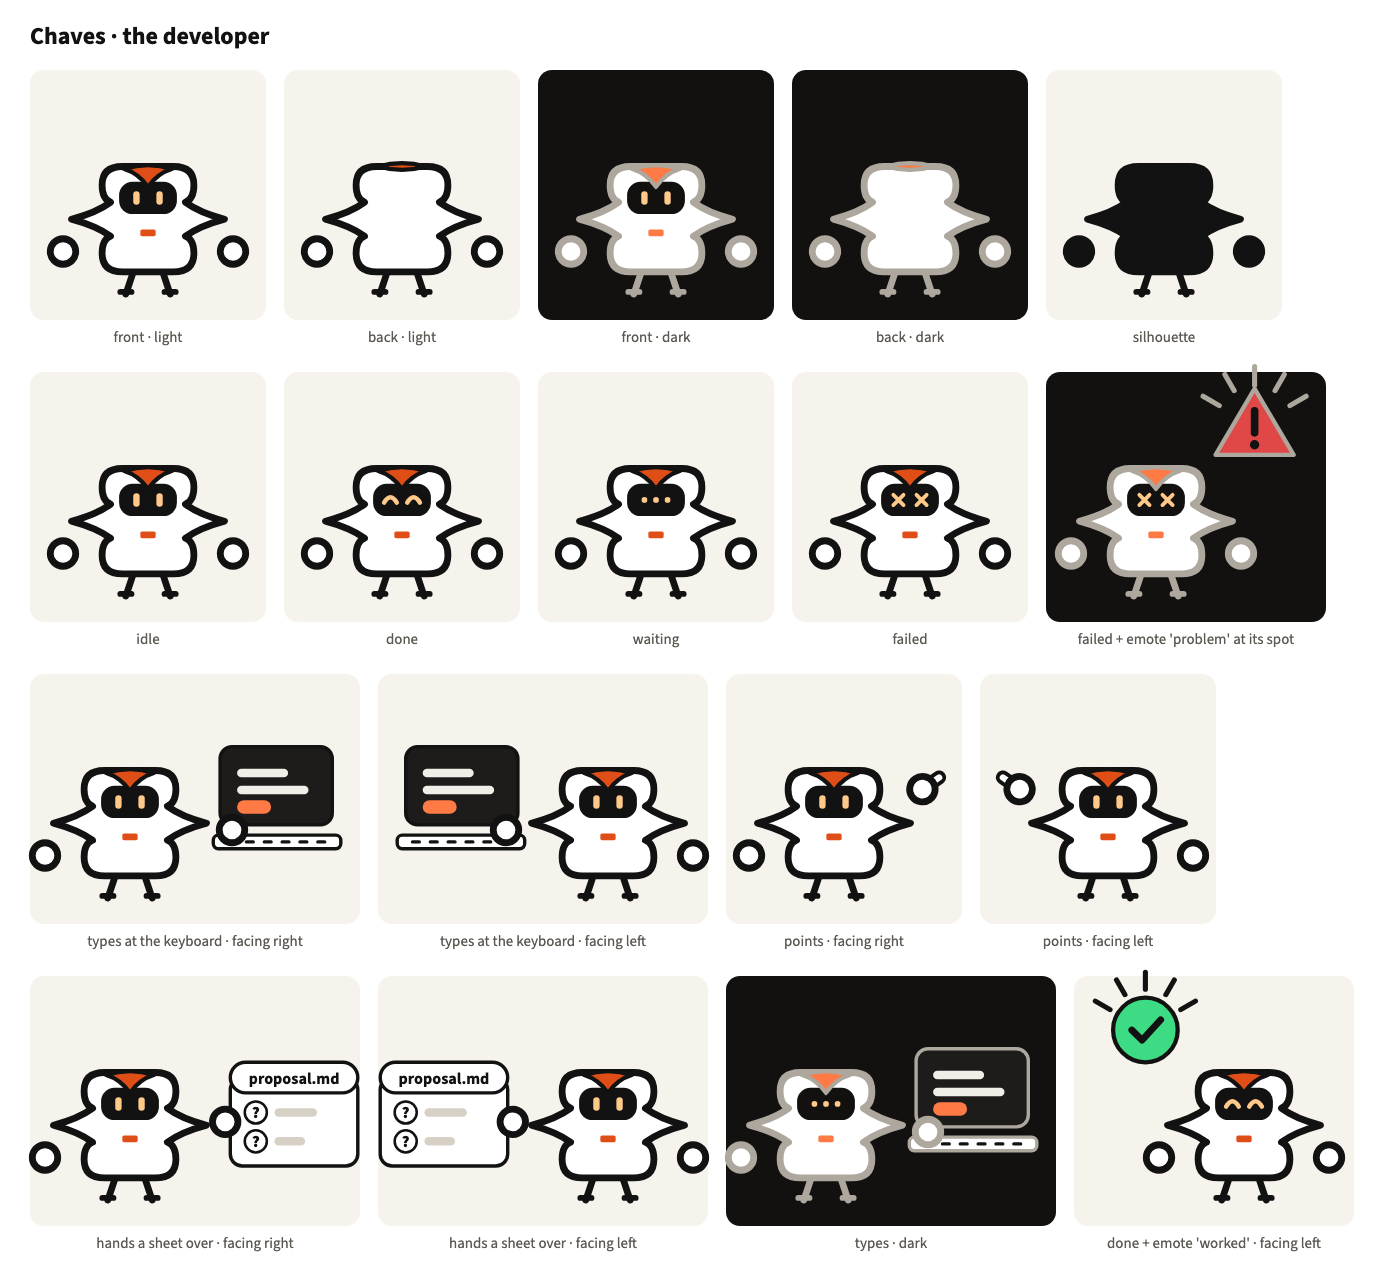
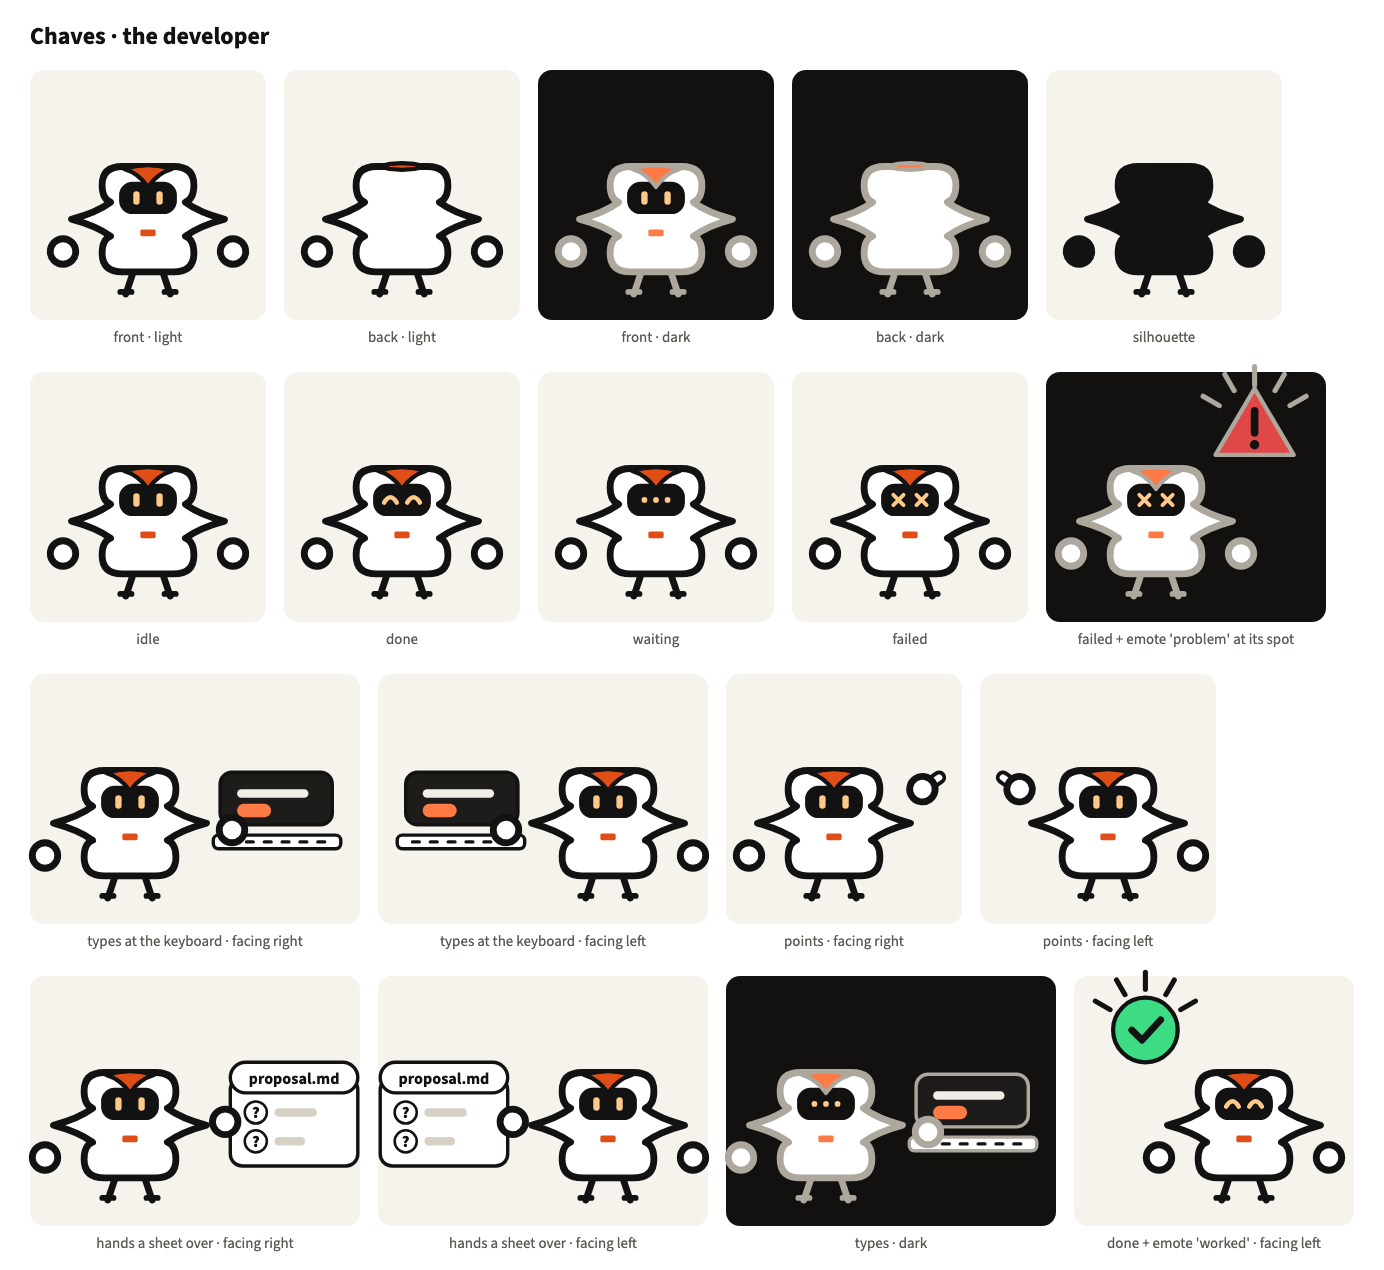
fix: clear the emote spot in the README's typing screen, test every emote there (supporting-characters, code review round 1)

Changed region(s): [[0.6525, 0.7984, 0.7457, 0.8906], [0.2796, 0.5835, 0.3728, 0.6449], [0.1553, 0.5835, 0.2486, 0.6449]]

diff --git a/test/pieces/supporting-cast.test.ts b/test/pieces/supporting-cast.test.ts
@@ -9,9 +9,12 @@ import { describe, expect, test } from "vitest";
 import {
   CAST_EXPRESSIONS,
   CAST_FACINGS,
+  EMOTE_KINDS,
   PIECES,
   balao,
   chaves,
+  codePanel,
+  emote,
   keyboard,
   pill,
   pose,
@@ -261,10 +264,14 @@ describe("Chaves's silhouette", () => {
     expect(points.find(([x]) => x === Math.max(...xs))).toEqual([90, -88]);
     expect(points.find(([x]) => x === Math.min(...xs))).toEqual([-90, -88]);
     for (const point of [[44, -108], [44, -68], [-44, -108], [-44, -68], [54, -128], [54, -48], [-54, -128], [-54, -48]] as [number, number][]) expect(has(points, point), String(point)).toBe(true);
-    // |x| of the waist < |x| of the corners < |x| of the points; on y, -128 < -108 < -88 < -68 < -48.
-    expect(44).toBeLessThan(54);
-    expect(54).toBeLessThan(90);
-    expect([-128, -108, -88, -68, -48]).toEqual([-128, -108, -88, -68, -48].slice().sort((a, b) => a - b));
+    // From the drawn points on the right side: |x| of the waist < |x| of the corners < |x| of the point,
+    // and down the side the corner, the waist, the point, the waist and the corner follow each other.
+    const right = points.filter(([x, y]) => x > 0 && y > -150 && y < -26);
+    const xAt = (y: number) => right.find(([, py]) => py === y)![0];
+    expect(xAt(-108)).toBeLessThan(xAt(-128));
+    expect(xAt(-68)).toBeLessThan(xAt(-48));
+    expect(xAt(-128)).toBeLessThan(xAt(-88));
+    expect(right.map(([, y]) => y)).toEqual([-128, -108, -88, -68, -48]);
     // The curves into and out of the point (90, -88) are quadratics with the control points (60, -96) and (60, -80).
     const into = segments.find((segment) => segment.to[0] === 90 && segment.to[1] === -88)!;
     const outOf = segments.find((segment) => segment.from[0] === 90 && segment.from[1] === -88)!;
@@ -496,6 +503,8 @@ const boxesOf = (nodes: readonly SvgNode[], m = IDENTITY, stroke = "none", width
   });
 /** The distance from a point to a box (0 inside it). */
 const distance = ([x, y]: [number, number], box: Box) => Math.hypot(Math.max(box.x0 - x, 0, x - box.x1), Math.max(box.y0 - y, 0, y - box.y1));
+/** Whether two boxes share a point. */
+const meets = (a: Box, b: Box) => a.x0 <= b.x1 && b.x0 <= a.x1 && a.y0 <= b.y1 && b.y0 <= a.y1;
 /** The emote's disc: radius 40 and its outline (design §8). */
 const SPOT_RADIUS = 44;
 const spotOf = (facing: CastFacing): [number, number] => [facing === "left" ? -116 : 116, -200];
@@ -515,7 +524,18 @@ describe("Emote spot beside the head", () => {
       for (const [label, drawn] of calls) {
         expect(drawn.body[0].attrs.transform).toBe("translate(0 0) scale(1)");
         expect(overlapping(drawn, facing), `${label} facing ${facing}`).toEqual([]);
+        // Every emote drawn at the spot, its burst included (some reach past the disc), touches none of the piece's shapes.
+        const piece = boxesOf(kids(drawn.body[0]));
+        for (const kind of EMOTE_KINDS) {
+          const [x, y] = spotOf(facing);
+          const touching = boxesOf(emote({ kind, x, y }).body).filter((box) => piece.some((other) => meets(box, other)));
+          expect(touching, `${kind} at the spot of ${label} facing ${facing}`).toEqual([]);
+        }
       }
+      // The README's screen for Chaves typing, a codePanel above the keyboard (in the cover command's 4-unit outline), clears it too.
+      const screen = codePanel({ x: facing === "left" ? -238 : 106, y: -148, width: 132, height: 62, lines: [] });
+      const screenBoxes = boxesOf(screen.body, IDENTITY, "ink", tokens.outline.block);
+      expect(screenBoxes.filter((box) => distance(spotOf(facing), box) < SPOT_RADIUS), `screen facing ${facing}`).toEqual([]);
     }
   });
 

diff --git a/docs/spikes/2026-11-12-supporting-characters/model-sheet.ts b/docs/spikes/2026-11-12-supporting-characters/model-sheet.ts
@@ -145,9 +145,9 @@ const balaoPanel = characterPanel("balao", "Balão · the requester and approver
 ]);
 
 const screen = (x: number, gy: number, facing: Facing): Drawn => {
-  // The laptop's screen is a codePanel the scene places above the keyboard (design §4); one accent line is the command.
+  // The laptop's screen is a codePanel the scene places above the keyboard (design §4), low enough to clear the emote spot (design §8); one accent line is the command.
   const panelX = facing === "right" ? 106 : -238;
-  const panel = L.codePanel({ x: panelX, y: -178, width: 132, height: 92, top: 26, step: 20, lines: [{ indent: 0, w: 60, color: "white" }, { indent: 0, w: 84, color: "white" }, { indent: 0, w: 40, color: "white", tall: true }] });
+  const panel = L.codePanel({ x: panelX, y: -148, width: 132, height: 62, top: 20, step: 20, lines: [{ indent: 0, w: 84, color: "white" }, { indent: 0, w: 40, color: "white", tall: true }] });
   return { body: [g({ transform: `translate(${x} ${gy}) scale(${S})` }, ...panel.body)], text: [] };
 };
 const SHEET = { width: 150, height: 104, top: 30, step: 34, rows: [{ lead: "question" as const, bar: 50 }, { lead: "question" as const, bar: 36 }], label: "proposal.md" };

diff --git a/README.md b/README.md
@@ -222,19 +222,21 @@ const question = questionToken({ cx: 300, cy: 120, scale: 1.5 });
 
 The supporting characters of 0.13.0 (card 337, the concept the owner chose in the identity studio of 2026-11-12) are glyphs of their trade on Mira's legs, for the human roles of a scene. Both take the shared parameters and `facing: "right" | "left"` (default `right`; facing left is the mirror image of the body only, and a held prop and its words are never mirrored), do one action at a time and do nothing unless an action is set ([model sheet](docs/spikes/2026-11-12-supporting-characters/README.md)):
 
-- `balao`, the requester and approver: a speech balloon whose tail points at the listener (the side it faces). `speaks: true` lights the request line on its belly in the accent. `holdsStamp: { word }` holds the `stamp` piece in the front hand with the caller's word (the SDD scene's `GO`); the stamp is 24 in radius and draws its word at 27 whatever its length, so keep the word to two or three letters. Refused with `speaks` or from behind. Balão answering is a `sheet` the scene places beside its front hand.
+- `balao`, the requester and approver: a speech balloon whose tail points at the listener (the side it faces). `speaks: true` lights the request line on its belly in the accent. `holdsStamp: { word }` holds the `stamp` piece in the front hand with the caller's word (the SDD scene's `GO`); the held stamp is always the approval green (`color.state.healthy`), so its word says yes (`GO`, `OK`), never a refusal; the stamp is 24 in radius and draws its word at 27 whatever its length, so keep the word to two or three letters. Refused with `speaks` or from behind. Balão answering is a `sheet` the scene places beside its front hand.
 - `chaves`, the developer: a `{ }` body with sharp brace points and a waist (it reads as a brace at 24 px), and the cursor in the accent. `types: true` puts the `keyboard` under the front hand; the screen above it is a `codePanel` the scene places. `points: true` swaps the front hand for Visor's pointing hand. `holdsSheet` hands a sheet over, as Visor's (`width` 80 to 300, `height` 80 to 400, 1 to 8 `rows`, `label`), held out in the front hand. `types` and `holdsSheet` are refused from behind.
 - `keyboard({ x, y, width, surface })`, the laptop's base: a white slab (`width` 80 to 300, default 150, 16 high, top-left corner at `x`, `y`) with ink key marks, outlined on both surfaces. It takes no colour and no text; a cover can draw it under a `codePanel`.
 
 ```ts
 import { balao, chaves, codePanel } from "@brunosouzas/design-system";
+// A cover (a still). In a scene one character acts at a time (motion CAST-4): Balão speaks, then Chaves types.
 const requester = balao({ x: 300, y: 450, scale: 1.25, speaks: true });
+// The developer's screen above the keyboard, drawn before Chaves so the typing hand stays in front: in Chaves's
+// units at scale 1 a panel 132 x 62 at (-238, -148) facing left ((106, -148) facing right), low enough to clear the emote spot.
+const screen = codePanel({ x: 680 - 238 * 1.25, y: 450 - 148 * 1.25, width: 165, height: 77.5, top: 25, step: 25, lines: [{ indent: 0, w: 105, color: "white" }, { indent: 0, w: 50, color: "white", tall: true }] });
 const developer = chaves({ x: 680, y: 450, scale: 1.25, facing: "left", types: true });
-// The developer's screen, above the keyboard (facing left: x -238 in Chaves's units at scale 1).
-const screen = codePanel({ x: 680 - 238 * 1.25, y: 450 - 178 * 1.25, width: 165, height: 115, lines: [{ indent: 0, w: 60, color: "white", tall: true }] });
 ```
 
-**Emote spot.** An emote for Balão or Chaves sits beside the head on the front side, at the character's `scale` (about the head's size, motion CAST-3): its centre at (`x` + 116·`scale`, `y` − 200·`scale`) facing right and (`x` − 116·`scale`, `y` − 200·`scale`) facing left. There it clears the body, the hood tip, the hands, the pointing hand, the held stamp and the keyboard. A sheet Chaves holds taller than 114 (96 with a label) reaches the spot: then the scene moves the emote or the sheet, on its stills. The five pillar characters have no documented spot.
+**Emote spot.** An emote for Balão or Chaves sits beside the head on the front side, at the character's `scale` (about the head's size, motion CAST-3): its centre at (`x` + 116·`scale`, `y` − 200·`scale`) facing right and (`x` − 116·`scale`, `y` − 200·`scale`) facing left. There every emote, its burst included, clears the body, the hood tip, the hands, the pointing hand, the held stamp, the keyboard and the screen of the example above (a taller screen, like a panel reaching y −178, covers the spot). A sheet Chaves holds taller than 114 reaches the spot, and so does one taller than 96 whose label pill is at least as wide as the page (a narrower pill reaches it only higher: check the stills): then the scene moves the emote or the sheet, on its stills. The five pillar characters have no documented spot.
 
 `emote({ kind, x, y, scale, burst, surface })` draws a reaction beside a head, never over the face. Each kind keeps one meaning in every video, like the colours:
 

diff --git a/openspec/changes/supporting-characters/design.md b/openspec/changes/supporting-characters/design.md
@@ -116,7 +116,7 @@ The five cast pieces are pinned by `test/fixtures/cast-0.11.0.json` (138 calls, 
 
 The concept sheet is exploration and stays in the vault (art-direction DIV-2). The repository gets the model sheet the change makes true (SHEET-1), drawn by a script from `src/pieces/` only: `docs/spikes/2026-11-12-supporting-characters/model-sheet.ts` writes `model-sheet.svg` (fonts embedded; STY-8, English: `<title>` "Balão and Chaves: model sheet" and `<desc>` "The supporting characters of the brunosouzas.com cast, Balão (the requester and approver) and Chaves (the developer): front and back, expressions, actions, size against the cast, and at 48 and 24 px.") and PNG panels through Chrome and `<img>` (never `rsvg-convert`, ADR 0008), each under 200 KB: per character the front and back on light and dark, the silhouette, the four expressions, every action facing right and left, an emote at its spot; the seven characters on one ground line at one scale on light and dark (CAST-5); the row at 48 px and 24 px tall. The side view of SHEET-1 does not exist in this cast (front and back since the identity studio's round 7b).
 
-Emote spots (new; spec "Emote spot beside the head", for the README and the sheet), where the approved sheet puts them: on the front side, above and beside the head (its "waiting + doubt" and "failed + problem" panels). In local units facing right, the emote's centre is (116, −200) for both, at `scale` equal to the character's: an emote is about 80 units across at scale 1 (radius 40, observed in `emote.ts`'s `doubt` and `worked`), beside a head about 124 (Balão) and 108 (Chaves) wide, "about the head's size" (CAST-3). It clears the body, the hood tip, the front hand at rest and the pointing hand, and Balão's held stamp (checked with each path's per-segment boxes: the whole box of Balão's body path, which reaches its own empty top-right corner, would touch the disc where no ink is). In a scene the centre is (`x` + 116·`scale`, `y` − 200·`scale`), with −116 facing left. A sheet Chaves holds taller than 114 (with its outline) reaches the spot, or taller than 96 with a label, whose pill sits on the page's top edge; a scene that shows an emote then moves it or the sheet, on its stills (CAST-3). The sheet drew its emotes smaller than the head; G1 question 6 asks which size wins. The five pillar characters get no documented spot in this change.
+Emote spots (new; spec "Emote spot beside the head", for the README and the sheet), where the approved sheet puts them: on the front side, above and beside the head (its "waiting + doubt" and "failed + problem" panels). In local units facing right, the emote's centre is (116, −200) for both, at `scale` equal to the character's: an emote is about 80 units across at scale 1 (radius 40, observed in `emote.ts`'s `doubt` and `worked`), beside a head about 124 (Balão) and 108 (Chaves) wide, "about the head's size" (CAST-3). It clears the body, the hood tip, the front hand at rest and the pointing hand, and Balão's held stamp (checked with each path's per-segment boxes: the whole box of Balão's body path, which reaches its own empty top-right corner, would touch the disc where no ink is). In a scene the centre is (`x` + 116·`scale`, `y` − 200·`scale`), with −116 facing left. A sheet Chaves holds taller than 114 (with its outline) reaches the spot, or taller than 96 with a label whose pill, centred on the page's top edge, is at least as wide as the page (a narrower pill or a wider page reaches it only higher); a scene that shows an emote then moves it or the sheet, on its stills (CAST-3). The emotes' own shapes (the `problem` triangle, the `idea` bulb, the bursts) reach past the disc; drawn at the spot they still touch none of the piece's shapes (checked box against box). The screen of Chaves typing is the scene's `codePanel`: the README's (132 × 62 at (106, −148) facing right, its bottom at the keyboard's hand) clears the spot; the first sheet's taller panel, from y −178, covered it. The sheet drew its emotes smaller than the head; G1 question 6 asks which size wins. The five pillar characters get no documented spot in this change.
 
 ## 9. If gate 1 chooses the one-actor helper (question 9)
 

diff --git a/openspec/changes/supporting-characters/specs/illustration-pieces/spec.md b/openspec/changes/supporting-characters/specs/illustration-pieces/spec.md
@@ -183,15 +183,15 @@ The package SHALL export `keyboard({ x, y, width, surface })`, the laptop's base
 - **THEN** both hold `x`, `y`, `surface`, `scale`, `expression`, `view` and `facing`; `balao` adds exactly `speaks` and `holdsStamp`, `chaves` exactly `types`, `points` and `holdsSheet`; neither has a colour parameter
 
 ### Requirement: Emote spot beside the head
-For `balao` and `chaves` the emote spot SHALL be (116, −200) in local units facing right and (−116, −200) facing left, for an `emote` at the character's `scale` (CAST-3): a disc of radius 44 (the emote's 40 and its outline) there clears every shape the piece draws at rest, pointing, typing or holding the stamp, in both facings. A held sheet taller than 114, or than 96 with a label, reaches it.
+For `balao` and `chaves` the emote spot SHALL be (116, −200) in local units facing right and (−116, −200) facing left, for an `emote` at the character's `scale` (CAST-3): a disc of radius 44 there clears every shape the piece draws at rest, pointing, typing or holding the stamp, in both facings, and so do every `emote` drawn there and the README's screen for Chaves typing. A held sheet taller than 114 reaches it, or taller than 96 with a label whose pill is at least as wide as the page.
 
 #### Scenario: Spot clear of the body and props
-- **GIVEN** `balao` at rest and holding a stamp, `chaves` at rest, pointing and typing, each facing right and left at `x` 0, `y` 0
-- **WHEN** the bounding box of every shape (a path's per segment, from its end and control points; with half its stroke width, the pointing hand's rotation applied) is compared with the disc of radius 44 at the spot
-- **THEN** none of them overlaps the disc
+- **GIVEN** `balao` at rest and holding a stamp, `chaves` at rest, pointing and typing, each facing right and left at `x` 0, `y` 0, each of the eight `emote` kinds at the spot at scale 1, and the README's screen for Chaves typing (a `codePanel` 132 × 62 at (106, −148), mirrored facing left) in the cover command's 4-unit outline
+- **WHEN** the bounding box of every shape (a path's per segment, from its end and control points; with half its stroke width, the pointing hand's rotation applied) is compared with the disc of radius 44 at the spot, and each emote shape's box with each of the piece's
+- **THEN** none of the piece's shapes nor the screen overlaps the disc, and no emote shape's box meets a piece shape's box
 
 #### Scenario: A tall held sheet reaches the spot
-- **GIVEN** `chaves` holding the sheet of "Chaves hands a sheet over" (height 160), the same without the label at heights 100, 114 and 115, and with the label at heights 96 and 100, each facing right and left
+- **GIVEN** `chaves` holding the sheet of "Chaves hands a sheet over" (height 160, width 150, label `proposal.md`, whose pill is as wide as the page), the same without the label at heights 100, 114 and 115, and with the label at heights 96 and 100, each facing right and left
 - **WHEN** the page's and the label pill's boxes are compared with the disc
 - **THEN** the page at 160 and 115 overlaps it, nothing at 100 and 114 without a label nor at 96 with it does, and the pill at 100 does; the README says a scene moves the emote or the sheet then
 

diff --git a/docs/spikes/2026-11-12-supporting-characters/README.md b/docs/spikes/2026-11-12-supporting-characters/README.md
@@ -11,7 +11,9 @@ The model sheet of the supporting cast, Balão (`balao`, the requester and appro
 | `cast-row-dark.png` | 1540 x 320 | the same on the dark surface |
 | `small-sizes.png` | 1540 x 210 | the same row shown with Balão 48 and 24 px tall, light and dark: the size at which the concept's Chaves read as a pillow |
 
-The emote sits at the spot the README documents, (`x` ± 116·`scale`, `y` − 200·`scale`), at the character's scale (design §8).
+The emote sits at the spot the README documents, (`x` ± 116·`scale`, `y` − 200·`scale`), at the character's scale (design §8). The typing tiles draw the README's screen, 132 × 62 at (106, −148) facing right and (−238, −148) facing left in Chaves's units, which clears that spot.
+
+`model-sheet.ts` is a one-off evidence script, like the other spikes' scripts: it sits outside `tsconfig.json`'s `include`, so CI does not typecheck it; rerun it (below) when the pieces change.
 
 ## Commands
 
